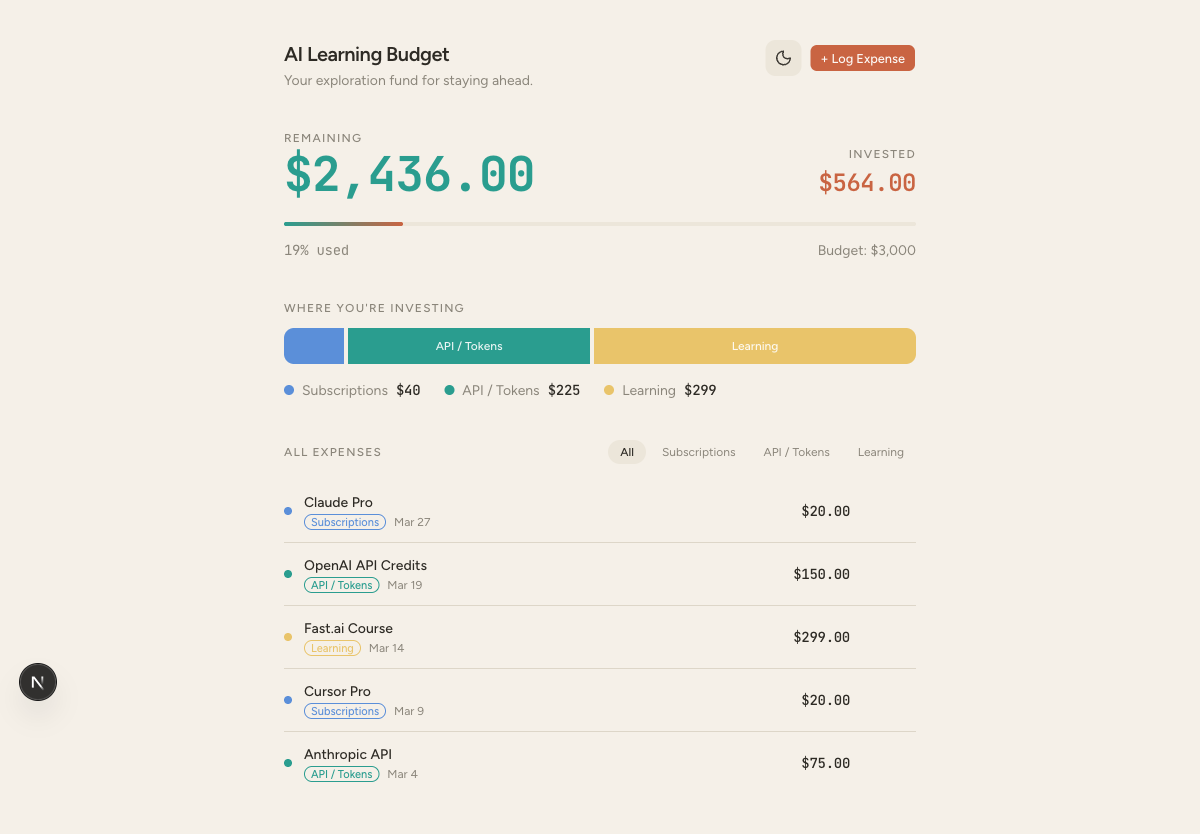
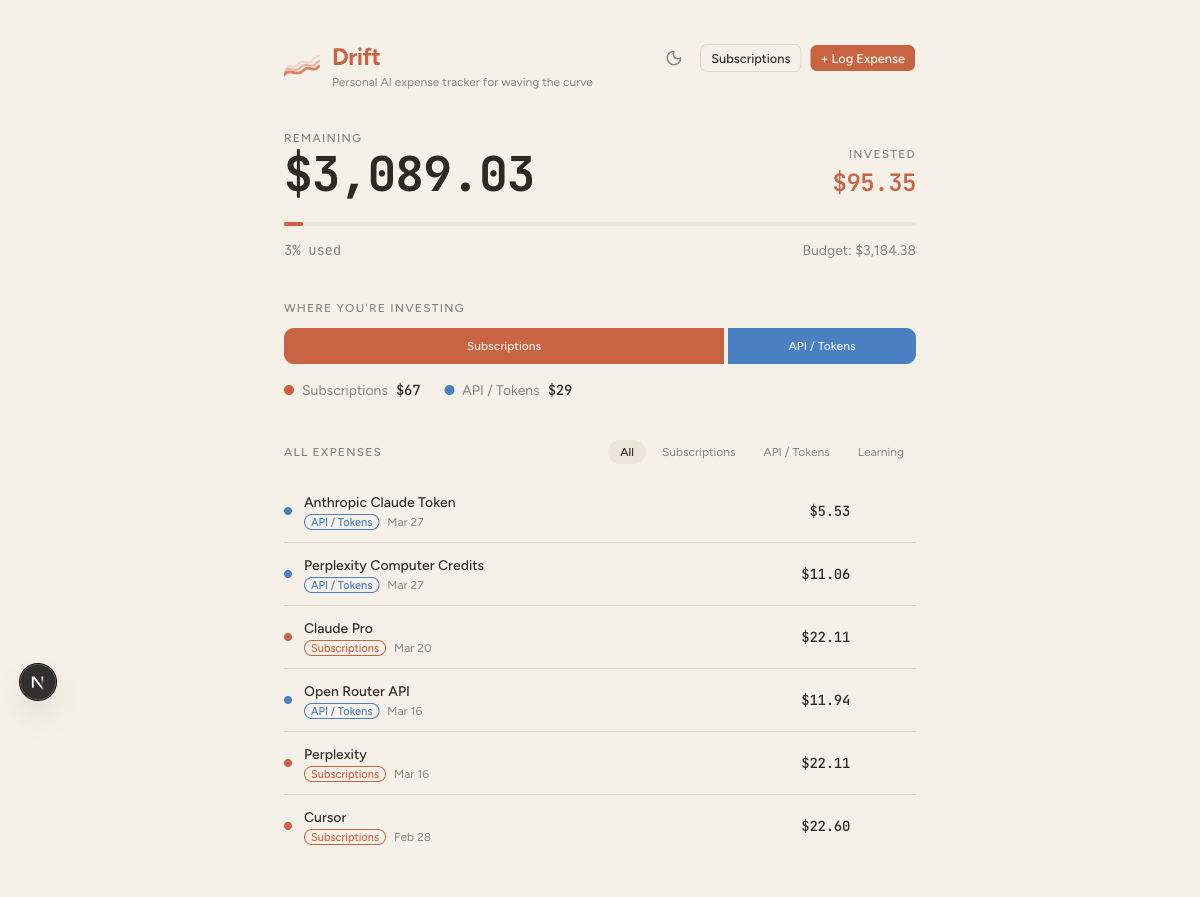
update README and screenshot for Drift rebrand

diff --git a/README.md b/README.md
@@ -1,25 +1,26 @@
-# AI Learning Budget
+# Drift
 
-A personal dashboard to track a one-time exploration fund for AI tools, APIs, and courses. Built to **encourage** spending on AI learning, not restrict it.
+Personal AI expense tracker for waving the curve.
 
-![AI Learning Budget Tracker](docs/screenshot.png)
+![Drift](docs/screenshot.png)
 
 ## Why
 
-I set aside $3,000 to invest in learning AI — subscriptions, API credits, courses, newsletters. This app tracks where that money goes and how much is left, so I can be intentional about exploring without overthinking every purchase.
+I set aside $3,000 to invest in learning AI — subscriptions, API credits, courses, newsletters. Drift tracks where that money goes and how much is left, so I can be intentional about exploring without overthinking every purchase.
 
 ## Features
 
 - Budget overview with remaining/invested amounts
 - Category breakdown (Subscriptions, API/Tokens, Learning)
 - Full expense log with filter, edit, and delete
+- Recurring subscriptions with renewal reminders
 - Configurable budget amount
 - Light/dark theme toggle
 - Postgres persistence (Prisma + Neon)
 
 ## Stack
 
-Next.js 16 &middot; TypeScript &middot; Tailwind CSS &middot; shadcn/ui &middot; Recharts &middot; Framer Motion &middot; Prisma &middot; Postgres
+Next.js 16 &middot; TypeScript &middot; Tailwind CSS &middot; shadcn/ui &middot; Framer Motion &middot; Prisma &middot; Postgres
 
 ## Getting Started
 
@@ -32,18 +33,13 @@ pnpm dev
 
 Open [http://localhost:3000](http://localhost:3000).
 
-## Database Setup (Postgres + Prisma)
+## Database Setup
 
-This app now persists data in Postgres.
-
-1. Create a Postgres database (Neon is simplest for Vercel).
+1. Create a Postgres database (Neon recommended for Vercel).
 2. Set `DATABASE_URL` in `.env` locally.
 3. Run `pnpm db:push`.
 
-For Vercel:
-
-1. Add `DATABASE_URL` in Project Settings → Environment Variables.
-2. Redeploy.
+For Vercel: add `DATABASE_URL` in Project Settings → Environment Variables, then redeploy.
 
 ## License
 
